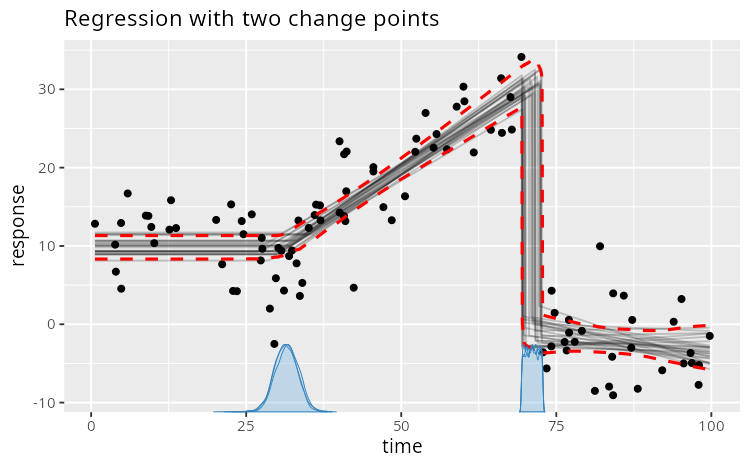
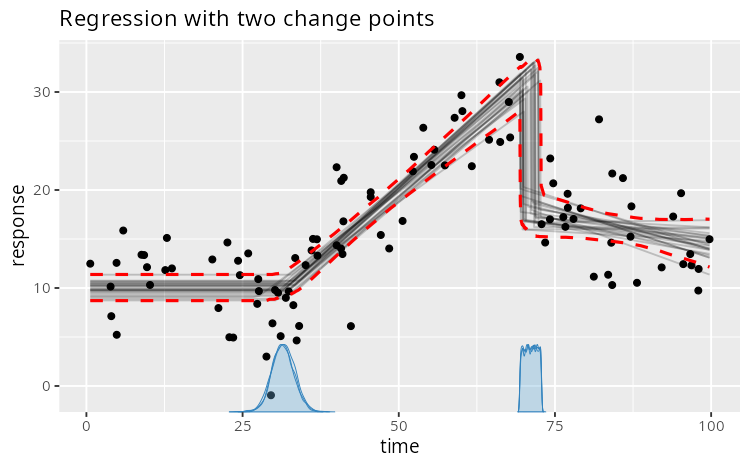
DOC: document() and friends

diff --git a/README.md b/README.md
@@ -144,17 +144,17 @@ summary(fit)
     ##   3: response ~ 1 ~ 1 + time
     ## 
     ## Change point parameters:
-    ##     variable   mean    sd lower upper rhat ess_bulk ess_tail  sim match
-    ##  cp_1        31.468 1.896 27.73 35.07 1.00     1101     1691 30.0    OK
-    ##  cp_2        71.122 1.000 69.46 72.77 1.00     6093     7716 70.0    OK
+    ##     variable  mean    sd lower  upper rhat ess_bulk ess_tail  sim match
+    ##  cp_1        31.49 1.801 27.99 35.086 1.00      988     1543 30.0    OK
+    ##  cp_2        71.13 1.003 69.47 72.770 1.00     5043     7229 70.0    OK
     ## 
     ## Population-level parameters:
-    ##     variable   mean    sd lower upper rhat ess_bulk ess_tail  sim match
-    ##  Intercept_1  9.968 0.755  8.46 11.43 1.00     2077     2971 10.0    OK
-    ##  time_2       0.534 0.052  0.43  0.64 1.00     1692     2830  0.5    OK
-    ##  Intercept_3 -1.414 1.318 -3.89  1.28 1.00     1276     2119  0.0    OK
-    ##  time_3      -0.059 0.075 -0.21  0.08 1.00     1213     1927 -0.2    OK
-    ##  sigma_1      4.422 0.322  3.85  5.11 1.00     4337     4035  4.0    OK
+    ##     variable  mean    sd lower  upper rhat ess_bulk ess_tail  sim match
+    ##  Intercept_1 10.02 0.673  8.70 11.348 1.00     1745     3312 10.0    OK
+    ##  time_2       0.53 0.047  0.44  0.629 1.00     1444     2724  0.5    OK
+    ##  Intercept_3 17.44 1.183 15.28 19.912 1.00     1347     2230 20.0      
+    ##  time_3      -0.10 0.070 -0.26  0.017 1.00     1347     2125 -0.3      
+    ##  sigma_1      3.90 0.294  3.38  4.532 1.00     4272     4247  3.5    OK
 
 - `rhat` is the rank-normalized split-Rhat convergence diagnostic.
 - `ess_bulk` and `ess_tail` are the effective sample sizes for the bulk
@@ -203,8 +203,8 @@ than 25 against it being less than 25?
 hypothesis(fit, "cp_1 > 25")
 ```
 
-    ##      hypothesis     mean    lower    upper         p       BF
-    ## 1 cp_1 - 25 > 0 6.468057 2.729073 10.06531 0.9981111 376.4029
+    ##      hypothesis     mean   lower    upper post_prob       BF
+    ## 1 cp_1 - 25 > 0 6.490184 2.99265 10.08595 0.9993333 1067.781
 
 For model comparisons, we can fit a null model and compare the
 predictive performance of the two models using (approximate)
@@ -234,7 +234,7 @@ loo::loo_compare(fit_loo, fit_null_loo)
 
     ##   model elpd_diff se_diff p_worse diag_diff diag_elpd
     ##  model1       0.0     0.0      NA                    
-    ##  model2     -80.1     9.8    1.00
+    ##  model2     -45.7     7.8    1.00
 
 # Highlights from in-depth guides
 
@@ -308,7 +308,7 @@ deviation](articles/dpar.html):
   `~ar(N, 0 + x)` models increasing/decreasing autocorrelation.
 
 - `y | weights(w)` (and `y | trials(N) + weights(w)`) specifies
-  observation log-likelihood weights across all families, as in `brms`.
+  bservation log-likelihood weights (`w > 0`) across all families.
 
 - You can provide complete models in distributional parameters
   (currently `sigma()`, `shape()`, and `mu()`) and time-series (`ar()`
@@ -329,7 +329,9 @@ deviation](articles/dpar.html):
 
 - The default prior on change points is `dirichlet(1)` (uniform order
   statistics). For a single change point, this is the Beta(1, 1) /
-  uniform distribution over `[min(x), max(x)]`. Informativeness
+  uniform distribution over `[min(x), max(x)]`. For multiple change
+  points, it corresponds to a flat Dirichlet distribution over segment
+  lengths with equal spacing between change points. Informativeness
   increases as the number of change points increases.
 
 - Fix parameters to specific values using `cp_1 = 45` and share
@@ -389,16 +391,16 @@ head(fitted(fit, summary = FALSE))  # column .epred
 ```
 
     ## # A tibble: 6 × 14
-    ##   .chain .iteration .draw  cp_1  cp_2 Intercept_1 time_2 Intercept_3  time_3
-    ##    <int>      <int> <int> <dbl> <dbl>       <dbl>  <dbl>       <dbl>   <dbl>
-    ## 1      1          1     1  32.0  72.0        10.3  0.536       -2.14 -0.0566
-    ## 2      1          1     1  32.0  72.0        10.3  0.536       -2.14 -0.0566
-    ## 3      1          1     1  32.0  72.0        10.3  0.536       -2.14 -0.0566
-    ## 4      1          1     1  32.0  72.0        10.3  0.536       -2.14 -0.0566
-    ## 5      1          1     1  32.0  72.0        10.3  0.536       -2.14 -0.0566
-    ## 6      1          1     1  32.0  72.0        10.3  0.536       -2.14 -0.0566
-    ## # ℹ 5 more variables: sigma_1 <dbl>, response <dbl>, time <dbl>,
-    ## #   data_row <int>, .epred <dbl>
+    ##   .chain .iteration .draw  cp_1  cp_2 Intercept_1 time_2 Intercept_3 time_3
+    ##    <int>      <int> <int> <dbl> <dbl>       <dbl>  <dbl>       <dbl>  <dbl>
+    ## 1      1          1     1  31.4  70.5        8.98  0.594        18.3 -0.112
+    ## 2      1          1     1  31.4  70.5        8.98  0.594        18.3 -0.112
+    ## 3      1          1     1  31.4  70.5        8.98  0.594        18.3 -0.112
+    ## 4      1          1     1  31.4  70.5        8.98  0.594        18.3 -0.112
+    ## 5      1          1     1  31.4  70.5        8.98  0.594        18.3 -0.112
+    ## 6      1          1     1  31.4  70.5        8.98  0.594        18.3 -0.112
+    ## # ℹ 5 more variables: sigma_1 <dbl>, response <dbl>, time <dbl>, .epred <dbl>,
+    ## #   data_row <int>
 
 # Citation
 

diff --git a/dev/DECISIONS.md b/dev/DECISIONS.md
@@ -38,3 +38,9 @@ Running ar(4) on length-3 data fails in JAGS with uninformative error. This is s
 
 # 2026-09-03: no novel group predictions
 At least for now, fit$simulate() will not support novel categorical levels.
+
+# 2026-09-03: no inits for change points
+`mcp` internally assigns good inits for default change points. Adding user-override for these would add more complexity than I like for such an edge case.
+
+# 2026-09-03: keep mcp priors for sigma
+The prior for intercept-sigma and for `sigma(1)` (still Intercept, but on log-scale) are quite different. But since these are brms-defaults, this behavior is kept.
